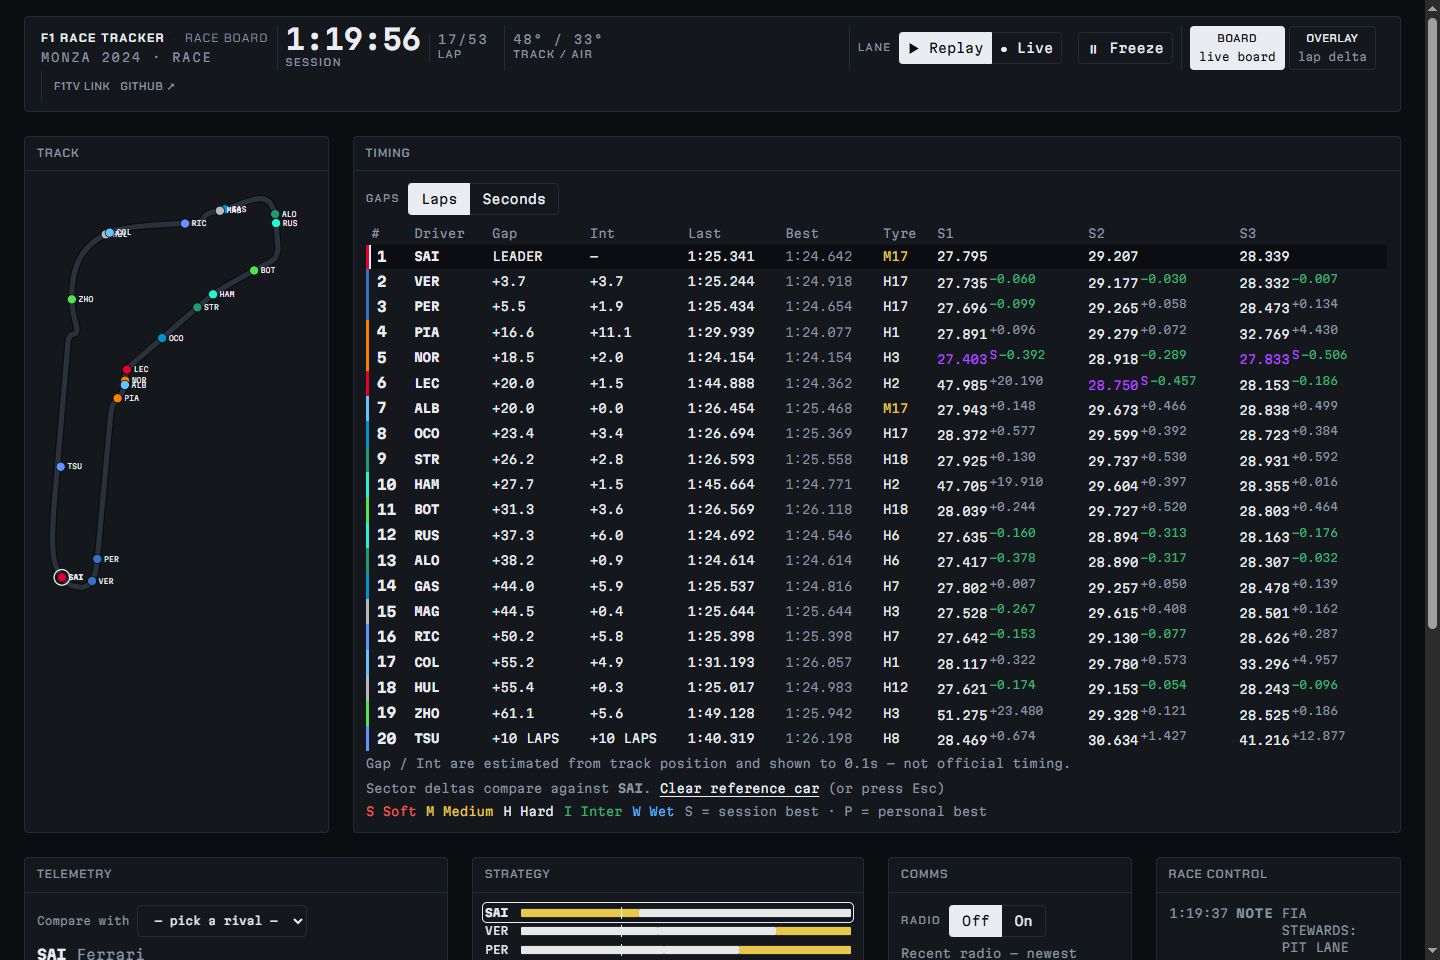
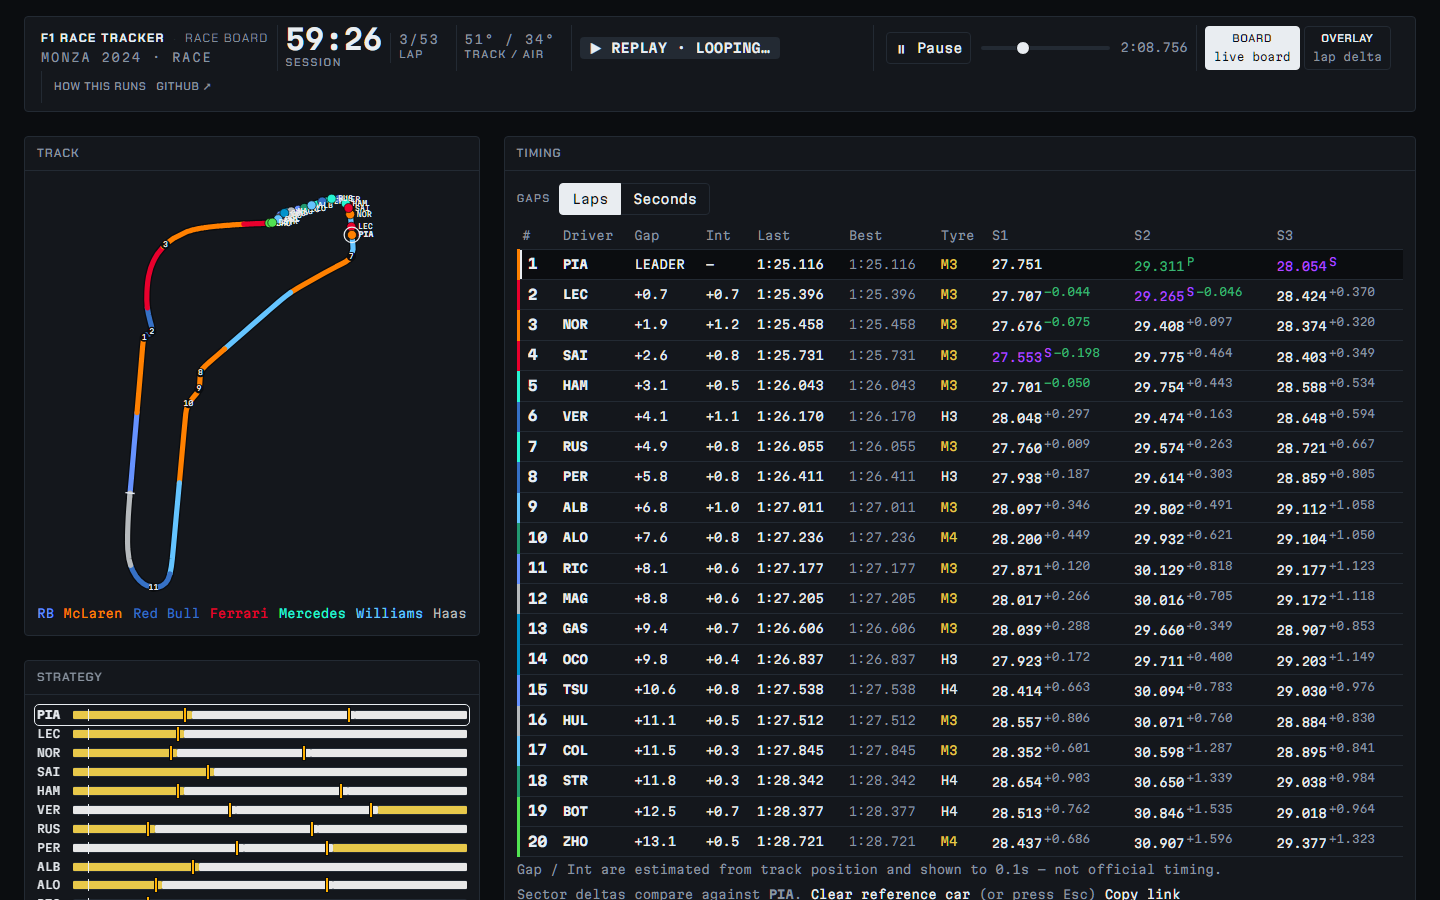
docs(readme): reshoot screenshots against Design_Direction.md, add a replay GIF (#180)
* docs(readme): reshoot screenshots against Design_Direction.md, add replay GIF (#124)

Shot from the live Pages demo at 1440x900 on 2026-11-03: board hero at
lap 3 (corner numbers, start/finish line, sector-dominance heatmap,
Pause and scrub bar), a 7 s track-map GIF, the two-car telemetry
compare with pedal traces, the strategy timeline with pit-stop ticks,
and the full overlay with its delta bar. The README and design doc now
say the pit-stop duration lives in the tick's tooltip.

Closes #124

* docs: cite ADR-0014 in Design_Direction.md, regenerate FILE-MAP.md

---------

diff --git a/README.md b/README.md
@@ -2,9 +2,11 @@
 
 # F1 Race Tracker
 
-![Pit-wall board — Monza 2024 replay: track map, timing tower, telemetry, strategy, comms and race control](docs/assets/board.png)
+![Pit-wall board — Monza 2024 replay on lap 3: track map with corner numbers, the start/finish line and the sector-dominance heatmap, the timing tower with sector shading, the strategy chart, and the static demo's Pause and scrub bar](docs/assets/board.png)
 
 An F1 race tracker that puts you on the pit wall — watch the cars on circuit, read the gaps, tyres, sector times and team radio like a race engineer, and dig into where a car is losing time. Built as a polyglot stack: Python ingests position data, Redis is the seam, a Go gateway fans it out over WebSocket, and a React SPA renders an interactive track map updating at 10 Hz. The design is track-map-first: car positions on circuit are the primary view.
+
+![The track map replaying Monza 2024: twenty cars round the circuit at 10 Hz over the sector-dominance heatmap](docs/assets/board-replay.gif)
 
 **One gateway sustained 1,000 concurrent WebSocket viewers at 10 Hz** — p99 fan-out latency of 48 ms, zero dropped clients, on a single laptop. See [BENCHMARKS.md](BENCHMARKS.md).
 
@@ -13,11 +15,15 @@ An F1 race tracker that puts you on the pit wall — watch the cars on circuit, 
 - **Track-map-first design** — positions on circuit are the primary view, not an afterthought table, with corner numbers and the start/finish line baked onto the outline as fixed track furniture.
 - **Pit-wall timing tower** — beside the map the board shows a live timing tower with gaps/intervals, last lap, tyres, and sector times for every car; a car in the pit lane shows `IN PIT` instead of a stale gap, and dims on the track map. Click any driver to open a per-car telemetry panel (speed, gear, throttle, brake, DRS, lap-time and gap trend sparklines) sourced from the same 10 Hz frame, with a "vs" picker for a side-by-side two-car telemetry compare that also charts throttle/brake/gear pedal traces over lap distance, so the two cars line up by track position rather than by clock time.
 - **Sector and lap-pace signal** — session-best and personal-best sector shading; click a row to set it as the reference car and every other row's sector delta switches to "how much am I losing to *them*, right now" instead of your own best. The track map carries the same idea forward as a sector-dominance heatmap — a minisector-by-minisector coloring of whichever driver was fastest through that stretch of track.
-- **Strategy timeline** — a full-race stint chart (compound + stint length per driver) baked once per session, with each pit stop's duration on the timeline, so the pit-stop story — undercuts, tyre choice, stint length — reads at a glance instead of disappearing the moment a stop happens.
+- **Strategy timeline** — a full-race stint chart (compound + stint length per driver) baked once per session, with a tick at each pit stop that carries the stop's duration (hover or screen reader), so the pit-stop story — undercuts, tyre choice, stint length — reads at a glance instead of disappearing the moment a stop happens.
 - **Weather** — track/air temperature and a rain badge in the status rail, baked from the session's real weather samples.
 - **Team-radio comms layer** — a toggleable layer that auto-plays driver↔engineer radio in sync with the replay clock, with a now-playing banner and a short replayable history. The audio streams straight from F1's public URLs at play time — nothing is committed or downloaded — so the comms audio (only) needs network access; positions and timing stay fully offline from the committed clips. See [docs/adr/0003-team-radio-streamed-not-committed.md](docs/adr/0003-team-radio-streamed-not-committed.md).
 - **Race control feed** — a timestamped, rolling log of real session messages (flags, safety car, investigations), baked from the session's actual race-control feed and replayed in sync alongside the timing tower.
 - **Lap-delta overlay** — two reference laps replayed against each other on one map, side A solid and side B a translucent ghost, with a red/green delta bar showing exactly where a lap is won or lost round the circuit. Each side is a *(session, driver)* pick, so it covers both the same driver across two seasons and two drivers in the same race.
+
+| Two-car telemetry compare with pedal traces | Strategy timeline with pit-stop ticks |
+|---|---|
+| ![Telemetry compare — PIA vs LEC: speed, gear, DRS, throttle and brake bars, and throttle/brake/gear traces over lap distance, solid for the reference car and dashed for the rival](docs/assets/telemetry-compare.png) | ![Strategy timeline — Monza 2024 stint bars for all twenty drivers in compound colours, an orange tick at each pit stop, and the marker at the replay's current lap](docs/assets/strategy.png) |
 
 The product is judged first by whether it helps you understand how the car is performing. The engineering underneath — real-time, byte-identical across two languages — is what makes that possible at scale:
 
@@ -42,7 +48,7 @@ The default view shows the Monza 2024 race clip (replay lane) — laps 2–6, th
 
 ### Lap-delta overlay
 
-![Lap-delta overlay — VER solid vs LEC ghost, Monza 2024, each driver's fastest lap](docs/assets/overlay.png)
+![Lap-delta overlay — VER solid vs LEC ghost, Monza 2024, each driver's fastest lap, with the delta bar below: VER 0.98 s ahead at this point of the lap](docs/assets/overlay.png)
 
 Open <http://localhost:8080/#ghost> for **OVERLAY** — one track map replaying two reference laps against each other, side A solid and side B a translucent ghost, under a per-corner delta bar. Each side is picked independently as a *(session, driver)* pair, so the same view does both comparisons:
 

diff --git a/docs/Design_Direction.md b/docs/Design_Direction.md
@@ -99,11 +99,11 @@ Restraint everywhere else: panels are flat boxes, and colour outside the map mea
   reads `IN PIT` in `--pit`.
 - **Telemetry panel:** speed, gear, throttle, brake, DRS, lap-time and gap sparklines. The "vs"
   picker adds a second car and pedal-trace charts over lap distance.
-- **Strategy chart:** one stint bar per driver in compound colours, with each stop's duration on
-  the timeline.
+- **Strategy chart:** one stint bar per driver in compound colours, with a tick at each stop whose
+  tooltip and accessible name carry its duration.
 - **Comms and Race Control:** rolling logs with timestamps. Comms has a now-playing banner.
 - **Playback bar (static demo only):** Pause and a scrubber. The live and replay lanes have no
-  pause or scrub.
+  pause or scrub, by decision (ADR-0014).
 - **Motion:** only the first page paints with a short staggered panel arrival (240ms + 180ms),
   inside `prefers-reduced-motion: no-preference`. Nothing else animates except chip transitions.
 

diff --git a/ROADMAP.md b/ROADMAP.md
@@ -54,7 +54,7 @@ Exit: findings addressed or explicitly waived. Skills: code-review, simplify, we
 
 ## 6 · Ship — recruiter-ready
 
-- [x] README rewrite: screenshots, architecture diagram, run-in-3-commands, "why I built this". (#86)
+- [x] README rewrite: screenshots, architecture diagram, run-in-3-commands, "why I built this". (#86; screenshots reshot 2026-11-03 against `docs/Design_Direction.md`, adding a replay GIF, the two-car telemetry compare and the strategy timeline, #124)
 - [ ] API docs/Swagger if applicable.
 - [x] Deployed demo link. (GitHub Pages static demo)
 - [ ] Final pass with /repo-review.
